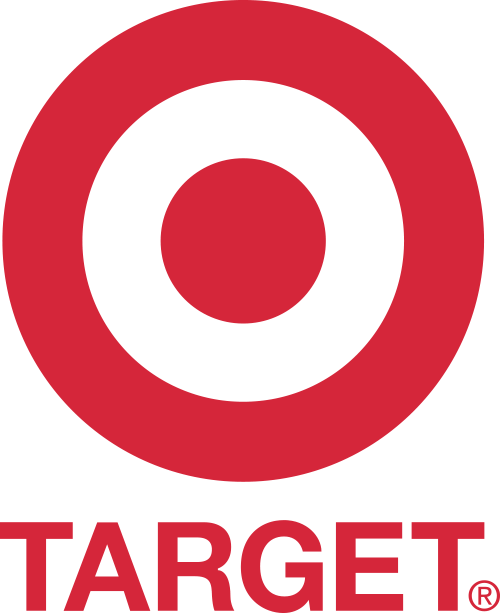
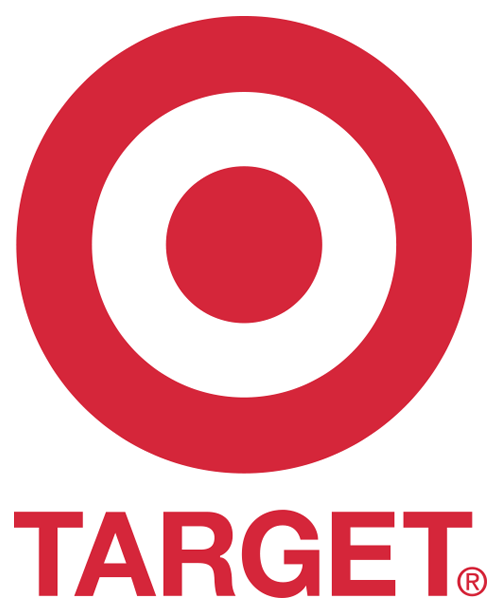
Adjust registry img

diff --git a/css/grayscale.scss b/css/grayscale.scss
@@ -244,7 +244,7 @@ a {
         max-width: 100%;
         height: auto;
         margin: 0 auto;
-        border: 1px solid $font-color;
+        // border: 1px solid $font-color;
     }
     /* Added in { Personal } */
     ul,
@@ -464,5 +464,18 @@ body {
   &:focus {
       text-decoration: none;
       border-color: darken($secondary-color,20%);
+  }
+}
+
+.registry-icon img {
+  display: inline-block;
+  max-width: 300px;
+
+  -webkit-transition: all .2s ease-in-out;
+  -moz-transition: all .2s ease-in-out;
+  transition: all .2s ease-in-out;
+  &:hover,
+  &:focus {
+    filter: hue-rotate(-90deg);
   }
 }

diff --git a/_includes/registry.html b/_includes/registry.html
@@ -11,7 +11,7 @@
 
         <p>For now, if you want to donate, please reach out to Allyson or Nick.  Registry at Target:</p>
 
-        <div class="col-md-4 col-md-offset-4"><a href="http://www.target.com/gift-registry/registry/f1979dade0514c3dab00d1c1808164f1"><img id='target-logo' src="img/target.png"></img></a></div>
+        <div class="col-md-4 col-md-offset-4 registry-icon"><a href="http://www.target.com/gift-registry/registry/f1979dade0514c3dab00d1c1808164f1"><img id='target-logo' src="img/target.png"></img></a></div>
       </div>
     </div>
   </section>
